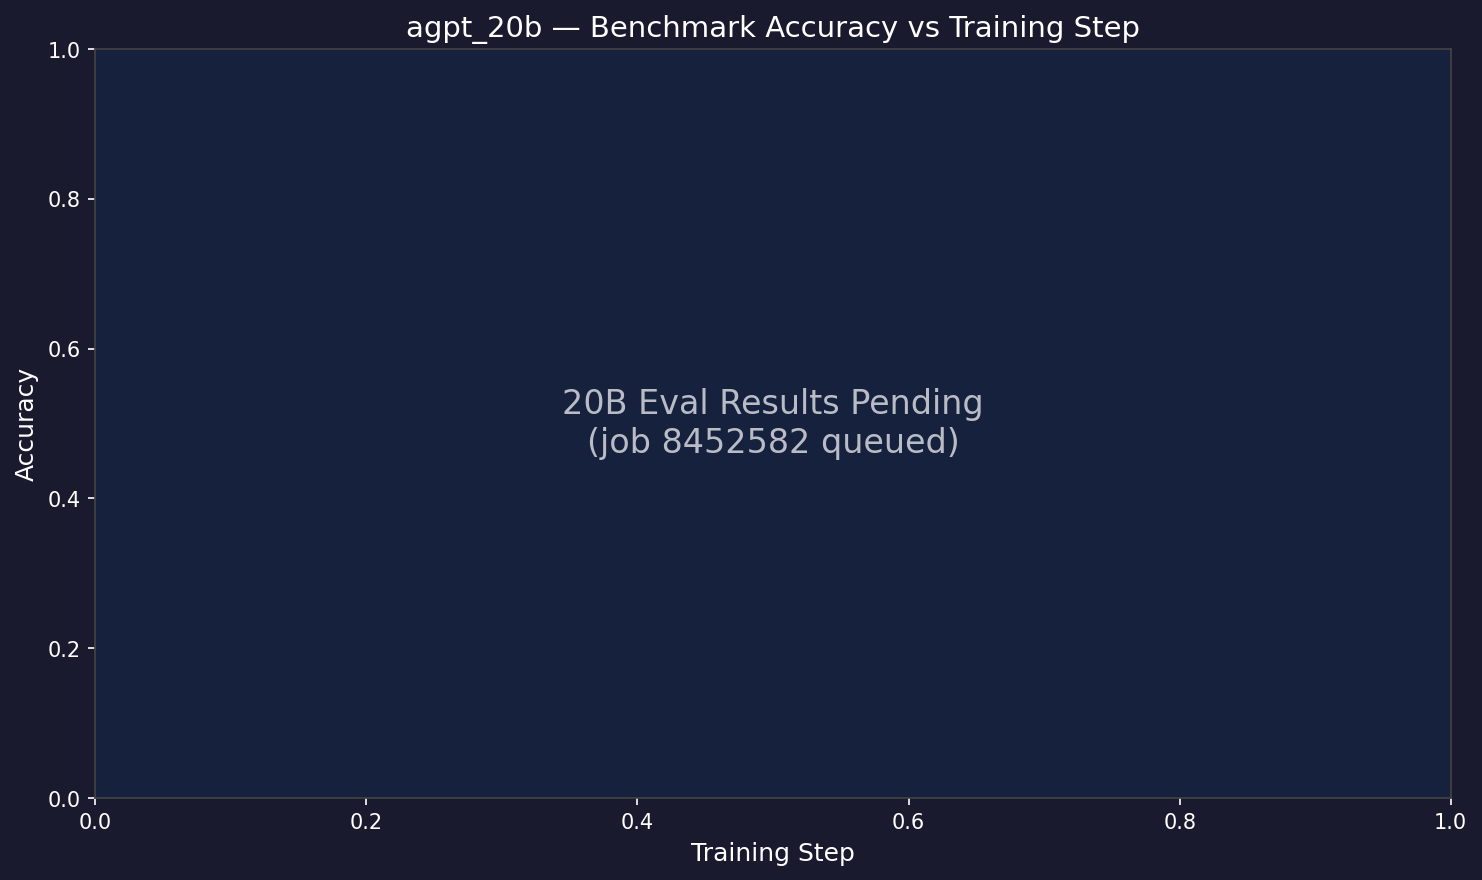
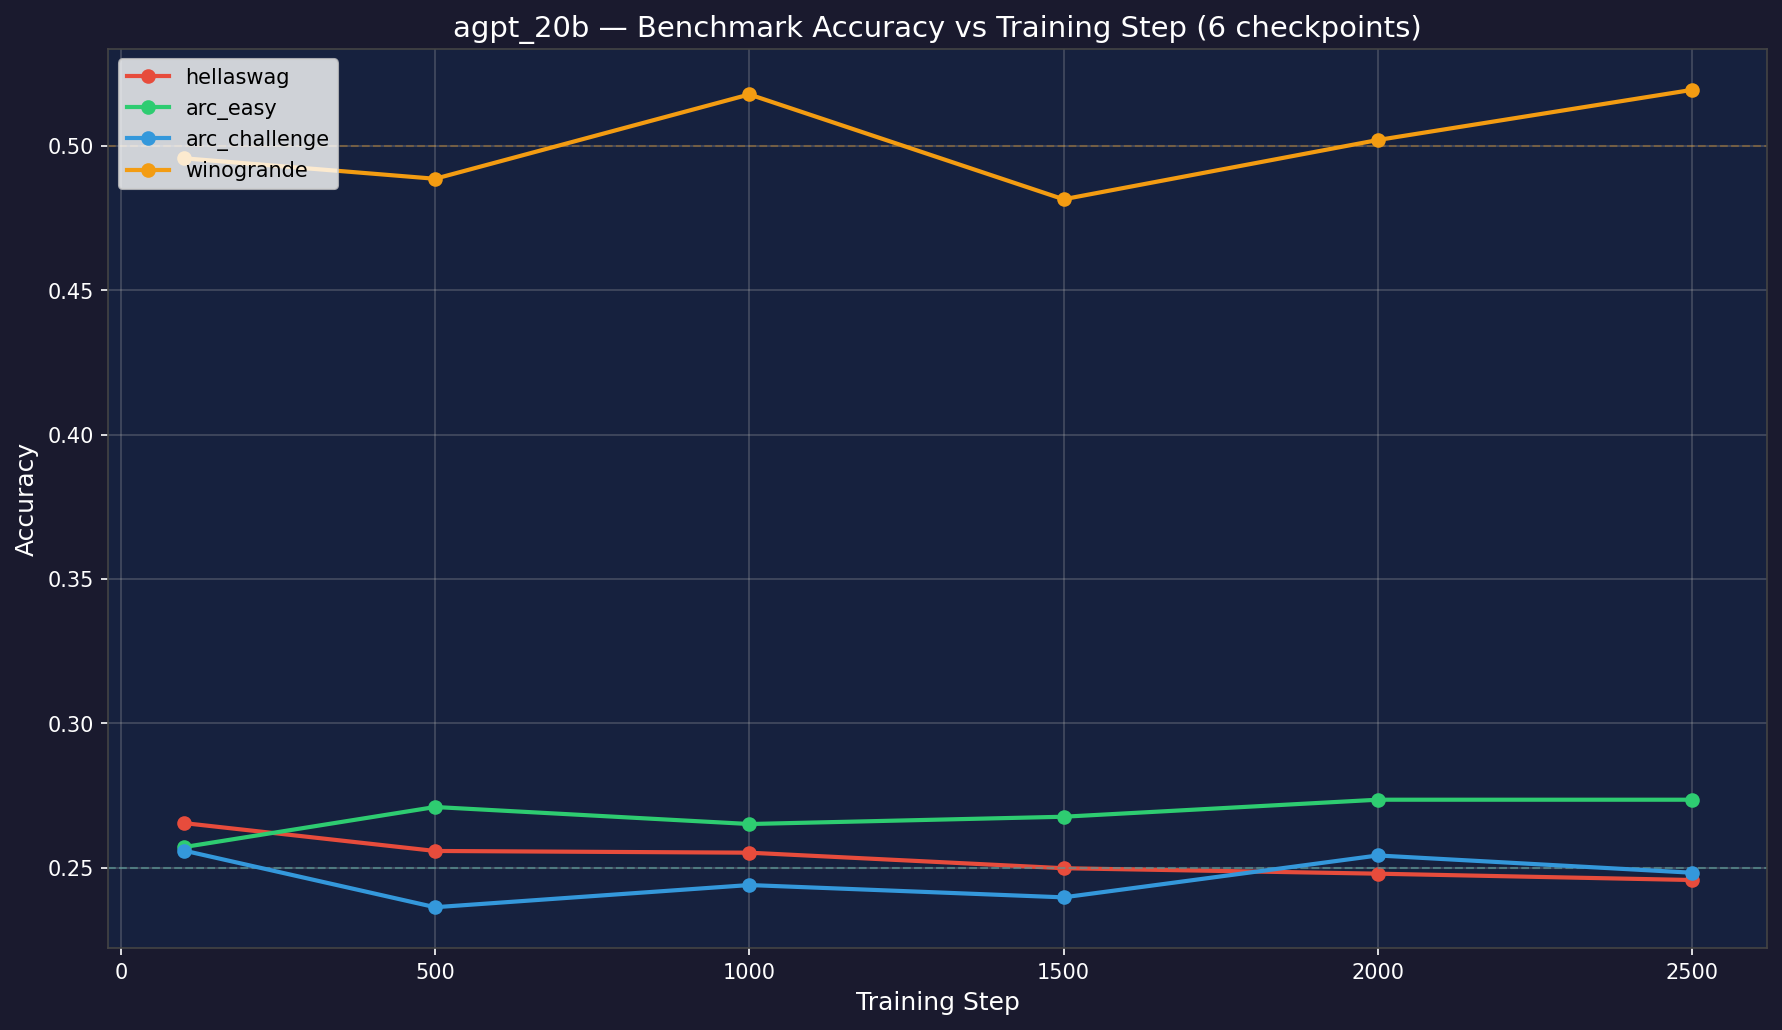
docs(ezpz): complete eval results for 2B (18) and 20B (6) checkpoints
- 20B evals all 6 done (steps 100-2500)
- ARC-challenge shows mild improvement: 23.4% → 25.6% (2B at 18K steps)
- Winogrande: 51.9% best at 20B step-2500 (vs 50% random)
- All scores still near random — need ~500B+ tokens for clear signal

diff --git a/torchtitan/experiments/ezpz/docs/evals/agpt/20b/README.md b/torchtitan/experiments/ezpz/docs/evals/agpt/20b/README.md
@@ -22,14 +22,15 @@
 
 ## Results
 
-| Step | Tokens | Loss | HellaSwag | ARC-Easy | ARC-Challenge | Winogrande |
-|------|--------|------|-----------|----------|---------------|------------|
-| 100 | 25B | 11.84 | *pending* | | | |
-| 500 | 13B | 7.35 | *pending* | | | |
-| 1,000 | 25B | 5.73 | *pending* | | | |
-| 1,500 | 38B | 5.25 | *pending* | | | |
-| 2,000 | 50B | 5.03 | *pending* | | | |
-| 2,500 | 63B | 4.85 | *pending* | | | |
+| Step | Tokens | Loss | HellaSwag | ARC-Easy | ARC-Chall | Winogrande |
+|------|--------|------|-----------|----------|-----------|------------|
+| 100 | 2.5B | 11.84 | 26.50 | 25.71 | 25.60 | 49.57 |
+| 500 | 13B | 7.35 | 25.62 | 27.12 | 23.55 | 48.86 |
+| 1,000 | 25B | 5.73 | 25.49 | 26.47 | 24.40 | 51.78 |
+| 1,500 | 38B | 5.25 | 25.05 | 26.81 | 23.98 | 48.07 |
+| 2,000 | 50B | 5.03 | 24.80 | 27.40 | 25.43 | 50.20 |
+| 2,500 | 63B | 4.85 | 24.62 | 27.36 | 24.83 | 51.93 |
+| 3,000+ | — | 4.59 | *pending continuation* | | | |
 
 **Notes:**
 - All HF checkpoints converted (6 total)
